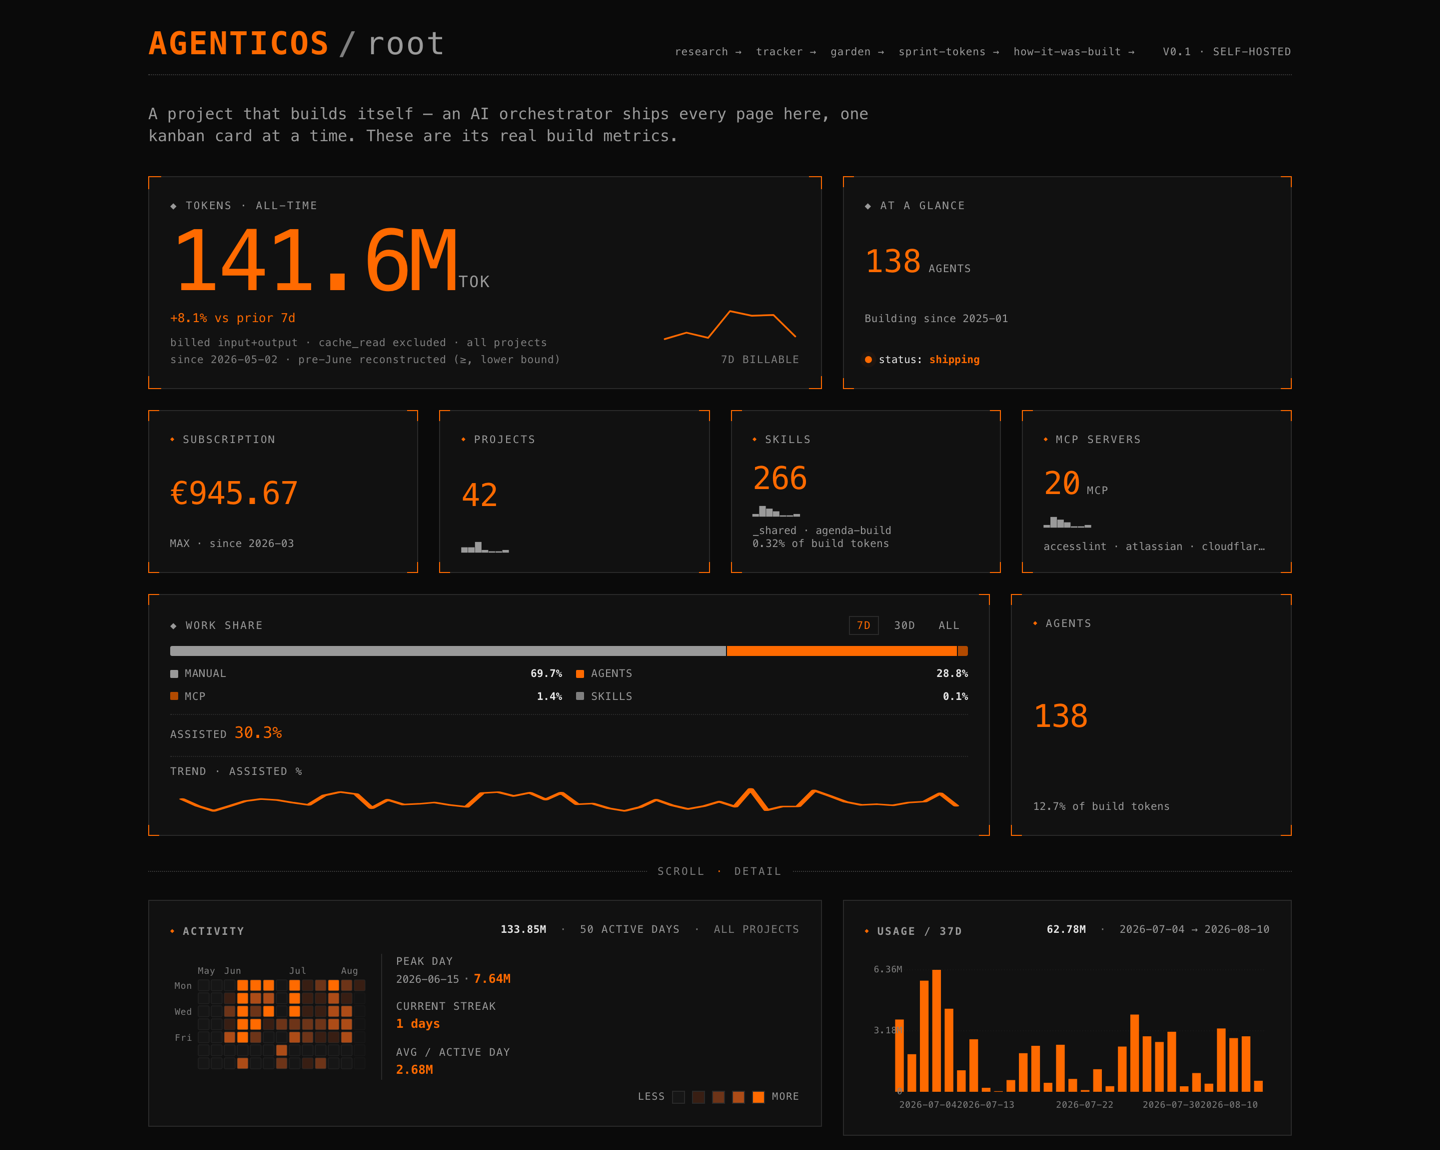
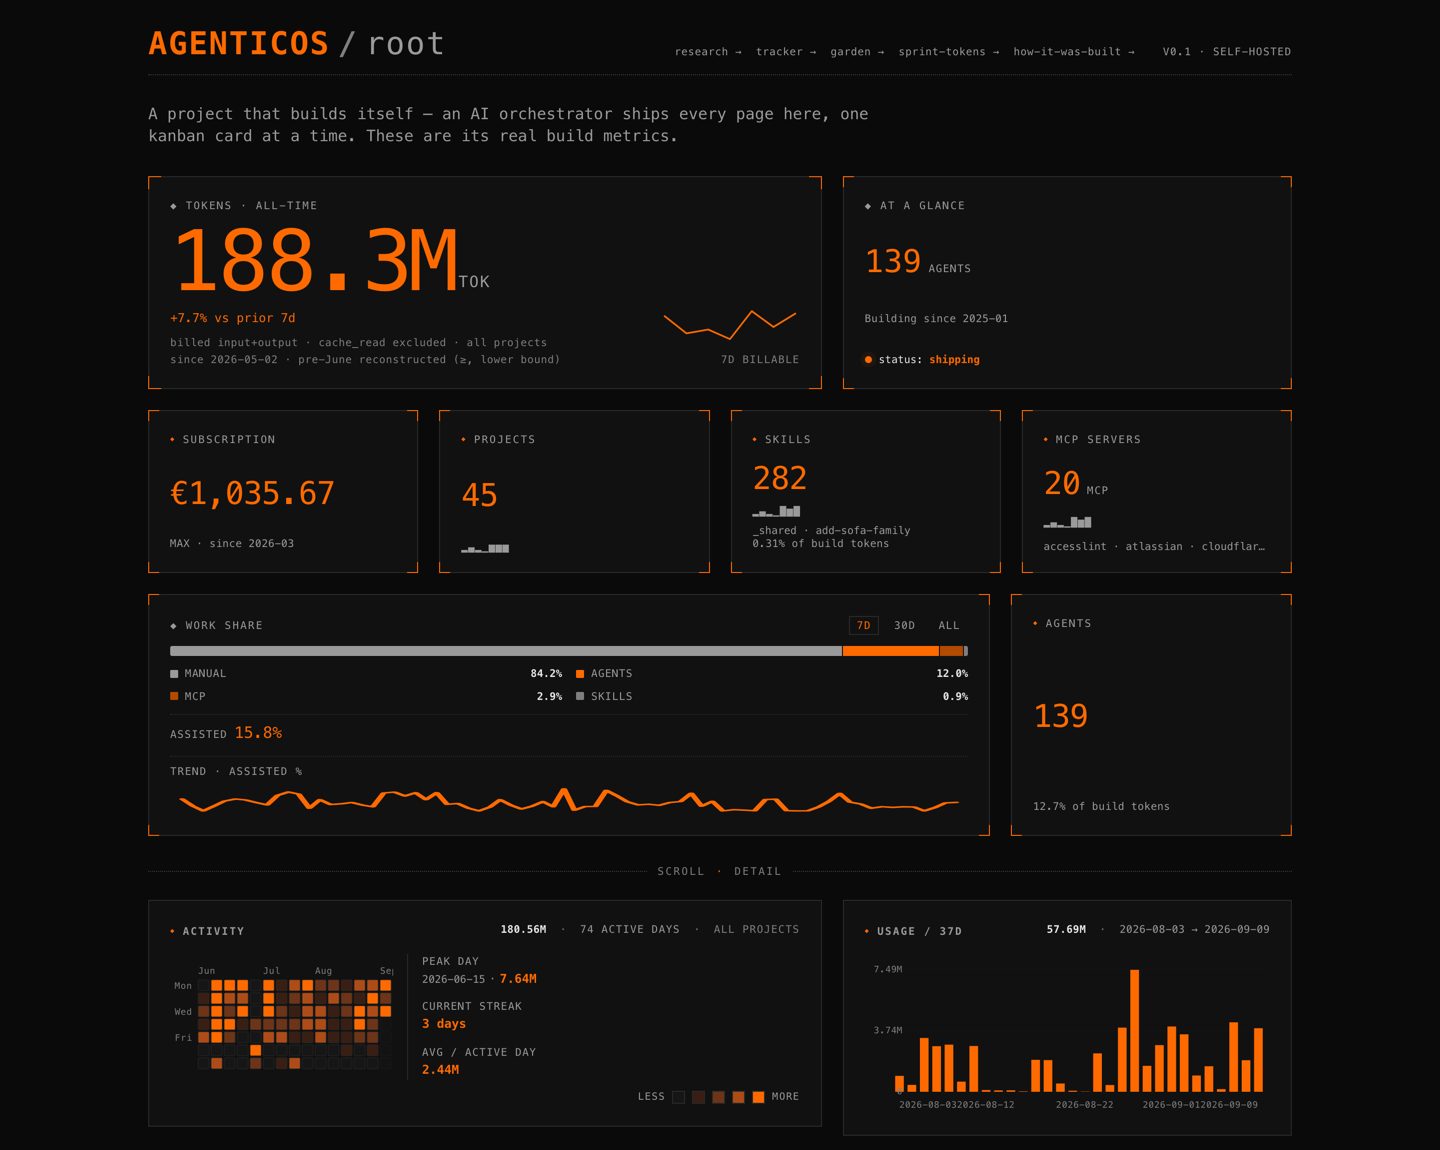
docs: refresh counts and re-shoot the screens from the live site
The all-time token headline has moved from just over 100M to 188.3M since
these numbers were last set, so "100M+" understated the build by nearly
half. Counts re-anchored to September 2026 and the story figure taken from
the board the live receipt counts (276), not the story-file directory.

Both screenshots re-shot from agenticos.sethsendom.com after today's
deploy, so the images agree with the prose instead of showing an August
dashboard beside a September line.

Claude-Session: https://claude.ai/code/session_01RJ5HHuyKvhRVRoYTYVAc4R

diff --git a/README.md b/README.md
@@ -6,7 +6,7 @@ pulling one kanban card at a time, directed by a product manager who writes no c
 numbers on the site are that same work: tokens, projects, the agents and skills in operation, and
 a running subscription total, all parsed from real `~/.claude/` run logs rather than typed in.
 
-**100M+ metered tokens · 150+ one-hour sprints · 270+ stories.** Counts as of August 2026; the
+**185M+ metered tokens · 150+ one-hour sprints · 275+ stories.** Counts as of September 2026; the
 site itself is the current version.
 
 ![The public dashboard: all-time tokens, subscription total, projects, skills, MCP servers, agents and work share](assets/home-dashboard.png)
